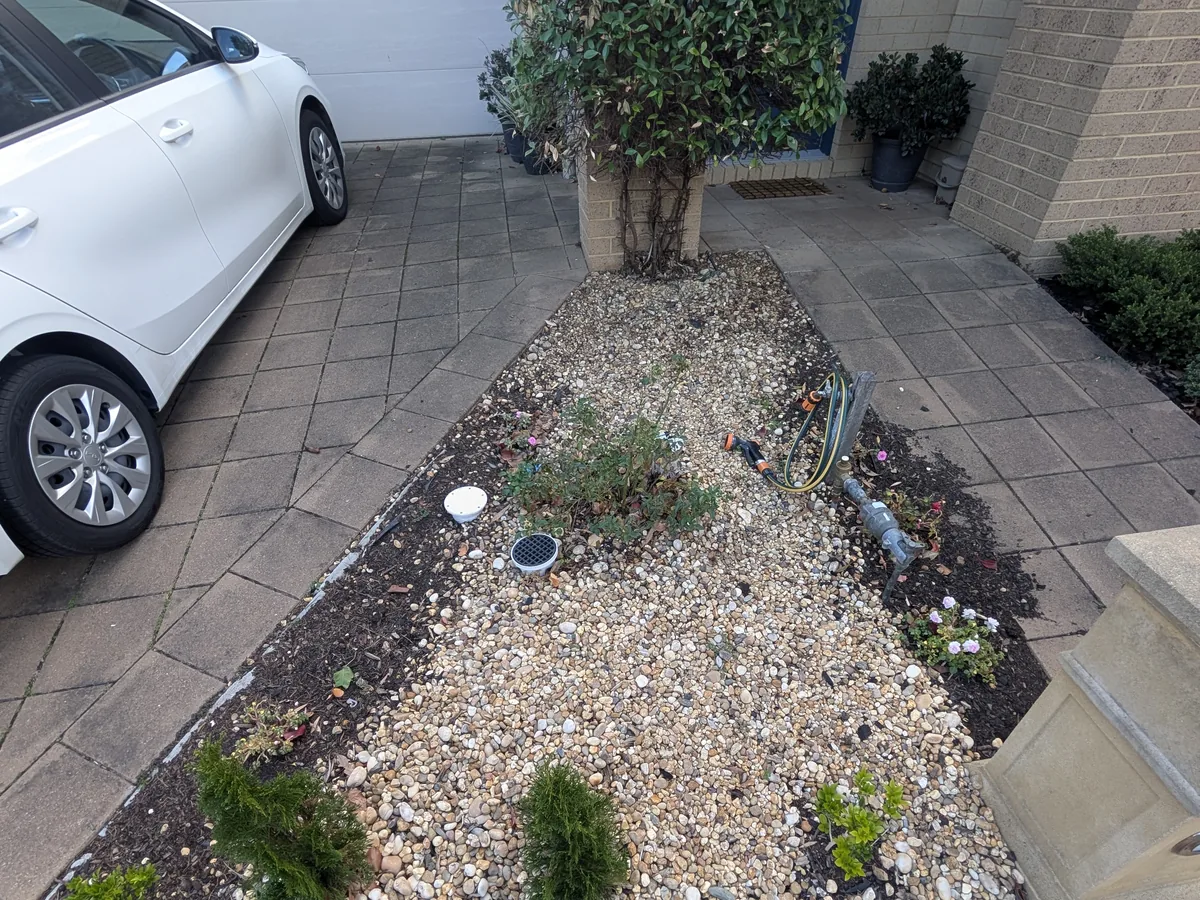
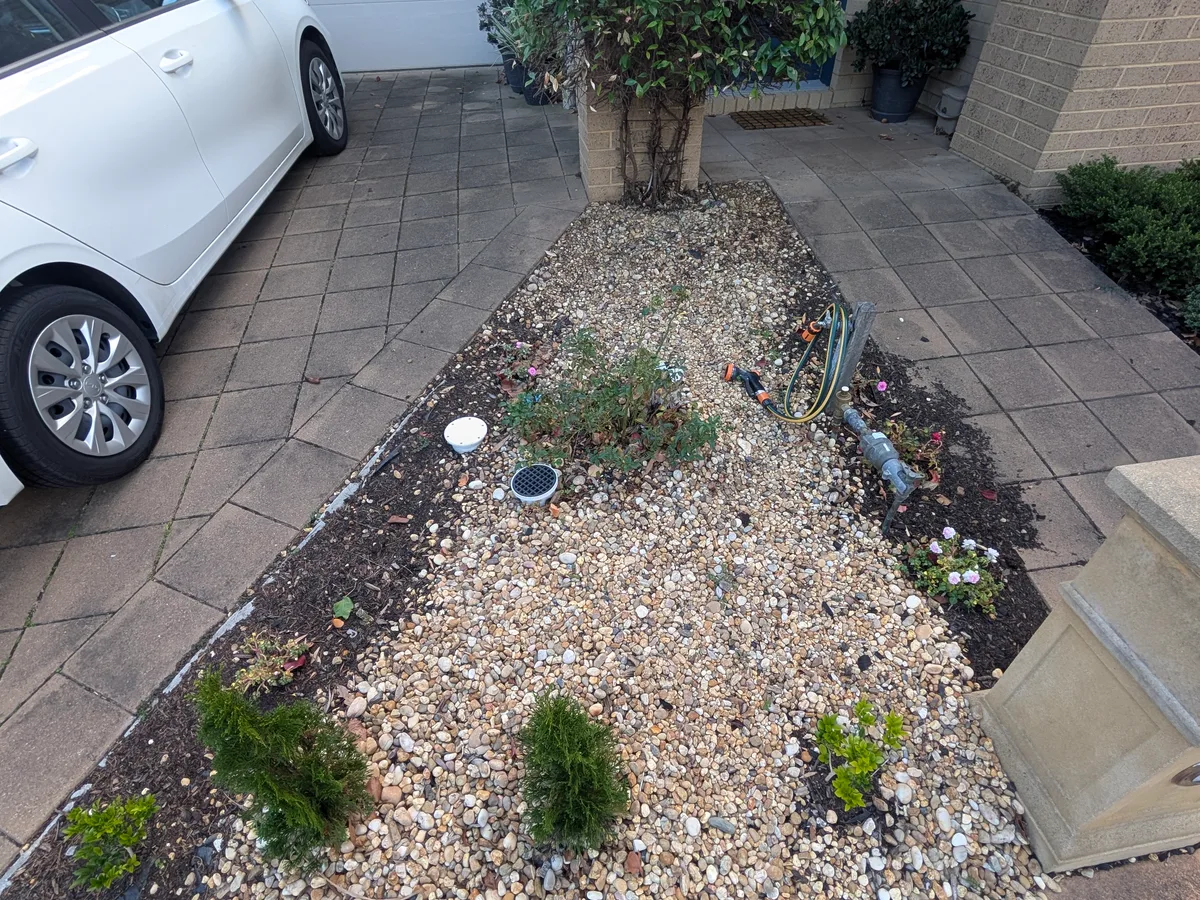
Fix turf/paving/retaining photos: right turf type per page, real paver photos, new before/afters
- Natural turf page hero was a synthetic lawn; now the natural front-lawn
  photo. That synthetic shot moves to the synthetic page gallery.
- Synthetic turf has no genuine before/after: removed from the service page
  and the project; the project shows its photos only.
- The pair that had been labelled synthetic is a natural-turf courtyard
  job: re-cut from the client's 7a/7b originals as a new project,
  courtyard-garden-turf-refresh.
- Bed-refresh before/after regenerated from the sharper 4a/4b originals.
- Retaining walls page gets its own before/after (8a/8b, stained sleeper
  project) instead of sharing the planter pair with the landscaping page.
- Paving page: green placeholder banner replaced with the client's
  flagstone patio photo; gallery leads with the clematis stepping stones
  and the front-path pavers photo.

diff --git a/scripts/services-data.js b/scripts/services-data.js
@@ -19,7 +19,7 @@ const P = {
   sleeper: "proj-sleeperbed-1",
   sleeper2: "proj-sleeperbed-2",
   turfCard: "service-natural-turf-solutions",
-  pavingCard: "service-paving-and-stepping-stones",
+  pavingCard: "paving-flagstone-patio-pergola",
   wallsCard: "service-retaining-walls",
   softCard: "service-soft-landscaping",
   designCard: "service-garden-design",
@@ -35,10 +35,11 @@ const NATURAL_TURF_BA = {
   link: "/projects/natural-turf-installation",
 };
 
-const SYNTHETIC_BA = {
-  before: { img: "proj-synthetic-sideyard-before", alt: "Before: a bare soil strip between the deck and the sleeper garden bed" },
-  after: { img: "photo-synthetic-turf-covered-deck", alt: "After: synthetic turf laid along the same strip beside the covered deck" },
-  note: "A genuine before and after from a side-yard synthetic turf installation beside a covered deck.",
+const RETAINING_BA = {
+  before: { img: "proj-retaining-before-1", alt: "Before: a sloping corner frontage with tired lawn, loose pebbles and a few shrubs along the footpath" },
+  after: { img: "proj-retaining-after-1", alt: "After: a dark-stained timber sleeper retaining wall with galvanised posts holding a level lawn, with flowers, pebble trim and red mulch" },
+  note: "A genuine before and after from our stained sleeper retaining wall project — see the full case study on our Projects page.",
+  link: "/projects/stained-sleeper-raised-garden",
 };
 
 const PLANTER_BA = {
@@ -56,7 +57,7 @@ module.exports = {
       name: "Natural Turf Supply & Installation",
       short: "Natural Turf",
       tagline: "Fresh, hard-wearing natural lawns supplied and laid to suit your soil, sun and lifestyle.",
-      image: "photo-front-yard-natural-turf",
+      image: "photo-natural-turf-flower-border",
       intro: "Nothing beats real grass underfoot. We supply and lay quality natural turf over properly prepared, graded and drained ground, so your new lawn takes root quickly and stands up to Melbourne summers, kids and pets.",
       whoFor: "Ideal for family backyards that get real use, front lawns that carry the home's street appeal, and new builds starting from bare soil. If your block gets reasonable sun and you don't mind mowing, natural turf gives the best feel and looks of any surface.",
       problems: [
@@ -158,8 +159,8 @@ module.exports = {
         { img: "photo-synthetic-turf-covered-deck", alt: "Synthetic turf strip between a covered deck and a sleeper garden bed" },
         { img: "photo-synthetic-turf-front-path", alt: "Curved synthetic front lawn beside a brick path and driveway" },
         { img: P.synthetic2, alt: "Close view of a finished synthetic lawn's natural-looking pile" },
+        { img: "photo-front-yard-natural-turf", alt: "Synthetic front lawn with a river-pebble border, freshly power-brushed" },
       ],
-      beforeAfter: SYNTHETIC_BA,
       related: ["natural-turf-installation", "turf-preparation-levelling-drainage", "hard-landscaping", "garden-care"],
     },
 
@@ -264,7 +265,7 @@ module.exports = {
         { img: P.planterProgress, alt: "Treated-pine planter wall under construction with fresh topsoil" },
         { img: P.sleeper2, alt: "Finished raised garden with stained wall, pebble strip and new lawn" },
       ],
-      beforeAfter: PLANTER_BA,
+      beforeAfter: RETAINING_BA,
       related: ["hard-landscaping", "turf-preparation-levelling-drainage", "paving", "plants-garden-beds-mulch"],
     },
 
@@ -313,7 +314,8 @@ module.exports = {
         ["Can you match my existing paving?", "Often yes — or we'll suggest a deliberate contrast that looks intentional instead of a near-miss."],
       ],
       gallery: [
-        { img: P.pavingCard, alt: "Level paved area laid to pattern" },
+        { img: "svc-pavers-stepping", alt: "Stepping-stone path through a narrow side-yard lawn beneath a wall of purple clematis" },
+        { img: "paving-front-path-pavers-pebbles", alt: "Front entry path of large-format pavers set in white pebbles between lawn and garden beds" },
         { img: P.litpath, alt: "Exposed-aggregate pads set in a lit pebble path" },
         { img: P.bannerYard, alt: "Front yard with curved paved path, retaining wall and garden beds" },
       ],

diff --git a/scripts/projects-data.js b/scripts/projects-data.js
@@ -118,6 +118,35 @@ module.exports = [
     ],
   },
   {
+    slug: "courtyard-garden-turf-refresh",
+    title: "Courtyard Garden Refresh — Turf, Pebbles & Planting",
+    categories: ["Turf", "Garden Transformations"],
+    summary: "An overgrown courtyard bed around an established tree cleared and re-laid as a neat square of natural turf, edged in white pebbles and flowers, with the timber sleeper path kept.",
+    challenge: "The bed beside the house had grown wild: weeds and self-sown growth had taken over the soil around the tree, and the timber sleeper path running past it had all but disappeared into the mess.",
+    scope: [
+      "Cleared the overgrowth and weeds back to bare soil",
+      "Prepared and levelled the ground around the existing tree",
+      "Laid natural turf as a clean square under the tree",
+      "Bordered the lawn with a white-pebble strip",
+      "Planted marigolds, lavender and mixed flowering plants along the edges",
+      "Retained the timber sleeper path and the established tree",
+    ],
+    approach: "The tree stayed where it was and the design was built around it. Once the bed was cleared and levelled, the turf was cut to a crisp square so the pebble border and planting could frame it, and the existing sleeper path was tidied rather than replaced.",
+    outcome: "A small courtyard that reads as one finished garden: fresh lawn under the tree, a bright pebble edge, colour along the borders and a clear path through it.",
+    hero: "proj-courtyard-after-1",
+    gallery: [
+      { img: "proj-courtyard-before-1", alt: "Before: overgrown, weedy bed around an established tree beside a timber sleeper path" },
+      { img: "proj-courtyard-after-1", alt: "After: a square of fresh natural turf under the tree, bordered with white pebbles and flowering plants, with the timber path retained" },
+    ],
+    before: { img: "proj-courtyard-before-1", alt: "Before: overgrown, weedy bed around an established tree beside a timber sleeper path" },
+    after: { img: "proj-courtyard-after-1", alt: "After: a square of fresh natural turf under the tree, bordered with white pebbles and flowering plants" },
+    relatedServices: [
+      ["/services/natural-turf-installation", "Natural Turf"],
+      ["/services/plants-garden-beds-mulch", "Plants, Garden Beds & Mulch"],
+      ["/services/garden-planting", "Garden Planting"],
+    ],
+  },
+  {
     slug: "synthetic-turf-front-lawn",
     title: "Synthetic Turf Front Lawn",
     categories: ["Turf"],
@@ -138,8 +167,6 @@ module.exports = [
       { img: "proj-synthetic-1", alt: "Dense synthetic turf lawn with timber edging and river-pebble border beside an established garden" },
       { img: "proj-synthetic-2", alt: "Close view of the finished synthetic lawn showing an even, natural-looking pile" },
     ],
-    before: { img: "proj-synthetic-before-1", alt: "Before: overgrown, patchy garden area around an established tree beside a timber path" },
-    after: { img: "proj-synthetic-after-1", alt: "After: synthetic turf framed by white pebbles, flowers and timber edging, with the established tree and timber path retained" },
     relatedServices: [
       ["/services/synthetic-turf-installation", "Synthetic Turf Installation"],
       ["/services/turf-installation", "Turf Installation"],

diff --git a/scripts/build-pages.js b/scripts/build-pages.js
@@ -146,8 +146,8 @@ const SERVICES = [
   },
   {
     name: "Paving & Stepping Stones",
-    image: "service-paving-and-stepping-stones.webp",
-    imageAlt: "Bluestone paving laid level across an outdoor patio area",
+    image: "paving-flagstone-patio-pergola.webp",
+    imageAlt: "Flagstone paved patio beside a timber pergola and a lawn",
     tagline: "Patios, paths and pool surrounds laid dead level and built to last.",
     desc:
       "Paving and stepping-stone paths across Melbourne's west and inner suburbs — bluestone, concrete and clay pavers on a proper base with correct drainage. Free on-site quotes: call 0457 357 085.",
